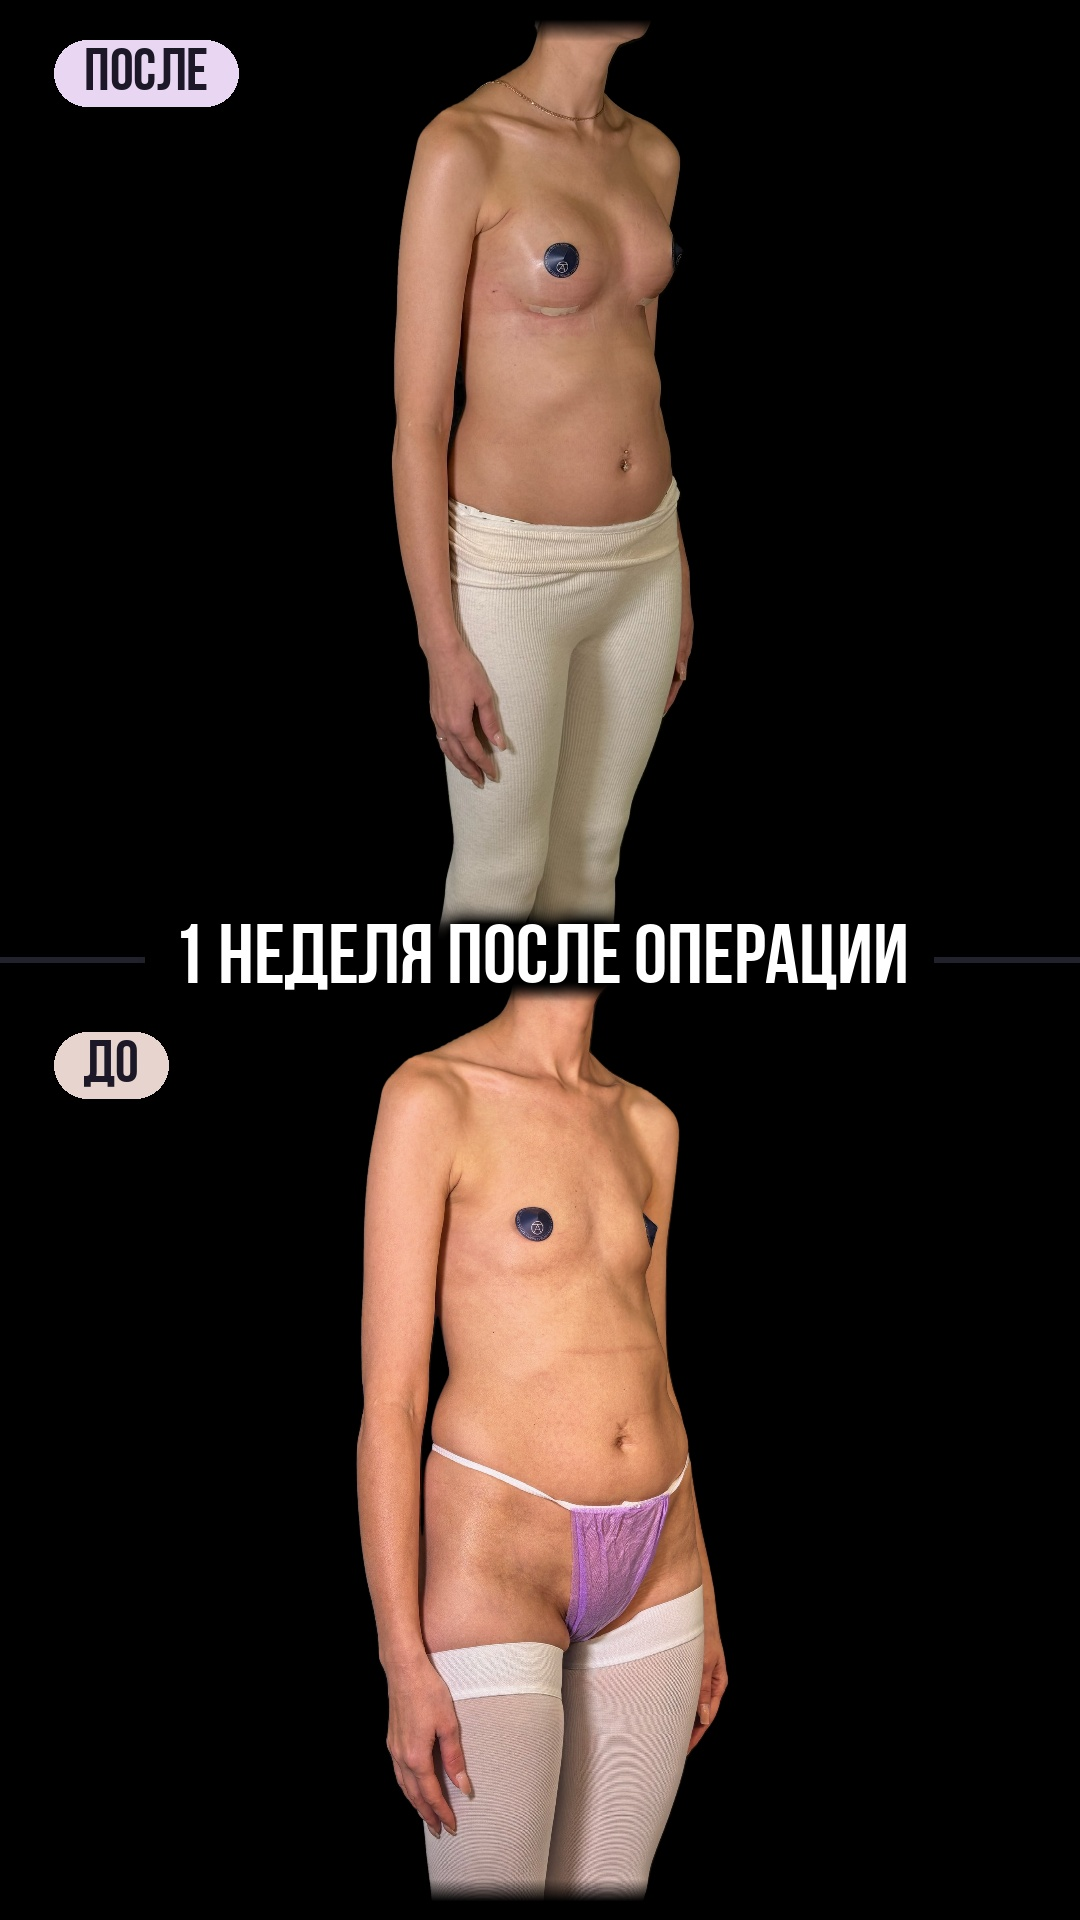
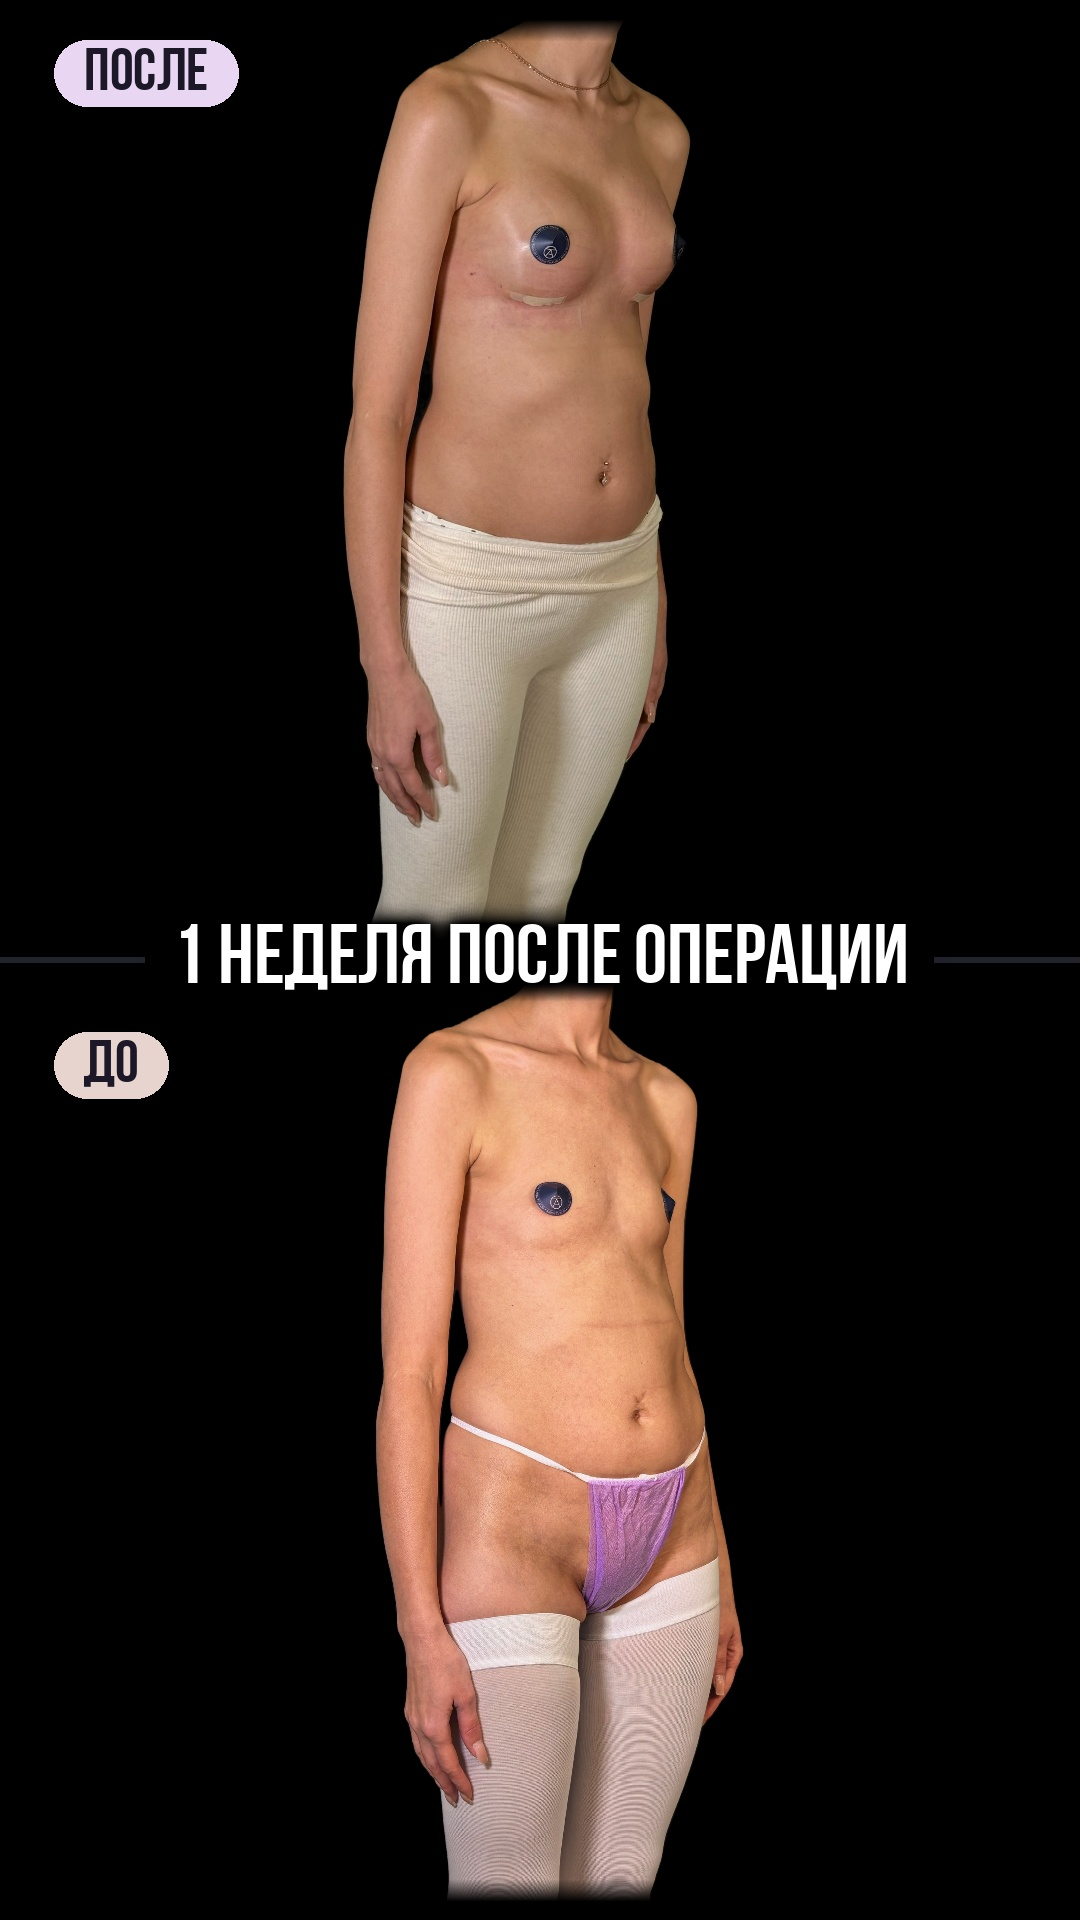
Week-1 collages: before/after matched by the shoulders and set upright; alignment rule added to the style guide
Claude-Session: https://claude.ai/code/session_01DLYcpYAewhkUMdYYshxueL

Changed region(s): [[0.3056, 0.0, 0.7028, 1.0]]

diff --git a/tools/collage_week1.py b/tools/collage_week1.py
@@ -15,12 +15,20 @@ SRC, OUT = sys.argv[1:3]
 ROOT = os.path.dirname(os.path.dirname(os.path.abspath(__file__)))
 BEBAS = os.path.join(ROOT, "skills/montage-svg-typography/Шрифты/Коллекция шрифтов/BebasNeueCyrillic.ttf")
 W, H, HALF = 1080, 1920, 960
-ABOVE, BELOW = 560, 1720          # source px kept above / below the nipple line: from under the chin to the knees
-S = 900 / (ABOVE + BELOW)
-# nipple line y and body centre x, source pixels (images are 2576 px tall)
-ANCH = {"b_front": (657, 566), "a_front": (631, 690),
-        "b_34": (670, 550), "a_34": (631, 690),
-        "b_side": (631, 532), "a_side": (580, 711)}
+# Alignment rule: ДО and ПОСЛЕ are matched by the SHOULDERS, and every body is rotated upright.
+#  front (and the scale of 3/4): shoulder points (outer top corners, source px) -> the shoulder line is made level,
+#               its midpoint goes to the same spot and both shoulder widths are scaled to the same size;
+#  side:        shoulder joint point + a lower point on the leg axis (knee) -> the body axis is made vertical,
+#               scale taken from the front pair of the same session.
+ABOVE, BELOW = 200, 2100          # ДО source px kept above / below the shoulder line: under the chin to the knees
+S0 = 900 / (ABOVE + BELOW)        # scale of the ДО photos
+SH = {"b_front": ((115, 300), (1005, 300)), "a_front": ((290, 340), (1080, 335)),
+      "b_34": ((130, 320), (870, 420)), "a_34": ((370, 320), (1030, 375))}
+SIDE = {"b_side": ((480, 300), (470, 2400)), "a_side": ((700, 320), (660, 2300))}
+# 3/4: the shoulder line is foreshortened by the turn, so levelling it tilts the legs; instead the body
+# axis (jugular notch -> between the knees) is made vertical, and the shoulder width still sets the scale
+AXIS = {"b_34": ((610, 330), (620, 2450)), "a_34": ((620, 330), (746, 2060))}
+SIDE_SCALE = {"b_side": 1.0, "a_side": 890 / 790}   # same camera session as the front pair
 SESSION = new_session("u2net_human_seg")   # keeps the whole silhouette in profile (plain u2net lost legs and back)
 
 
@@ -34,8 +42,17 @@ def half(name):
     bgk = np.clip((60 - hsv[..., 2]) / 20, 0, 1) * np.clip((70 - hsv[..., 1]) / 30, 0, 1)
     m = m * (1 - cv2.GaussianBlur(bgk, (0, 0), 2)[..., None])
     img = img * m                                                   # background -> black
-    ny, cx = ANCH[name]; top = ny - ABOVE
-    M = np.float32([[S, 0, 540 - S * cx], [0, S, 30 - S * top]])
+    if name in SH:
+        (x1, y1), (x2, y2) = SH[name]; ang = np.degrees(np.arctan2(y2 - y1, x2 - x1))
+        if name in AXIS:
+            (nx, ny), (kx, ky) = AXIS[name]; ang = -np.degrees(np.arctan2(kx - nx, ky - ny))
+        width = np.hypot(x2 - x1, y2 - y1); ref = SH[name.replace("a_", "b_")]
+        k = S0 * np.hypot(ref[1][0] - ref[0][0], ref[1][1] - ref[0][1]) / width
+        ax, ay = (x1 + x2) / 2, (y1 + y2) / 2
+    else:
+        (ax, ay), (lx, ly) = SIDE[name]; ang = -np.degrees(np.arctan2(lx - ax, ly - ay)); k = S0 * SIDE_SCALE[name]
+    M = cv2.getRotationMatrix2D((float(ax), float(ay)), float(ang), float(k))
+    M[0, 2] += 540 - ax; M[1, 2] += 30 + S0 * ABOVE - ay      # anchor -> fixed spot on the shoulder line
     out = cv2.warpAffine(img, M, (W, HALF), flags=cv2.INTER_AREA, borderValue=(0, 0, 0))
     y = np.arange(HALF, dtype=np.float32)[:, None, None]
     fade = np.clip((y - 30) / 22 + 0.5, 0, 1) * np.clip((930 - y) / 22 + 0.5, 0, 1)   # soft cut under the chin and at the knees

diff --git a/surgeon_style/STYLE.md b/surgeon_style/STYLE.md
@@ -23,3 +23,11 @@
 - Светлый коллаж: арки и круги с фото, пунктирная тропинка, короткие линейки между пунктами.
 - Светящаяся линия-таймлайн с годами.
 - Логотип ANNA TVAURI сверху по центру; в сторис текст держим в зоне 250–1670 px.
+
+## Коллажи ДО/ПОСЛЕ — правило выравнивания (всегда)
+- ДО и ПОСЛЕ выравниваются **по плечам**: одна высота линии плеч, одинаковая ширина плеч (масштаб), центр плеч по центру кадра.
+- Тело всегда ставится **ровно**: если на фото есть наклон — поворачиваем.
+  - анфас: линия плеч горизонтальна;
+  - 3/4: ось тела (яремная ямка → между коленями) вертикальна, масштаб — по ширине плеч;
+  - профиль: ось плечо → колено вертикальна, масштаб — как у пары анфас той же съёмки.
+- Фон убираем в чёрный, кадр — от шеи до колен (или как попросили).
